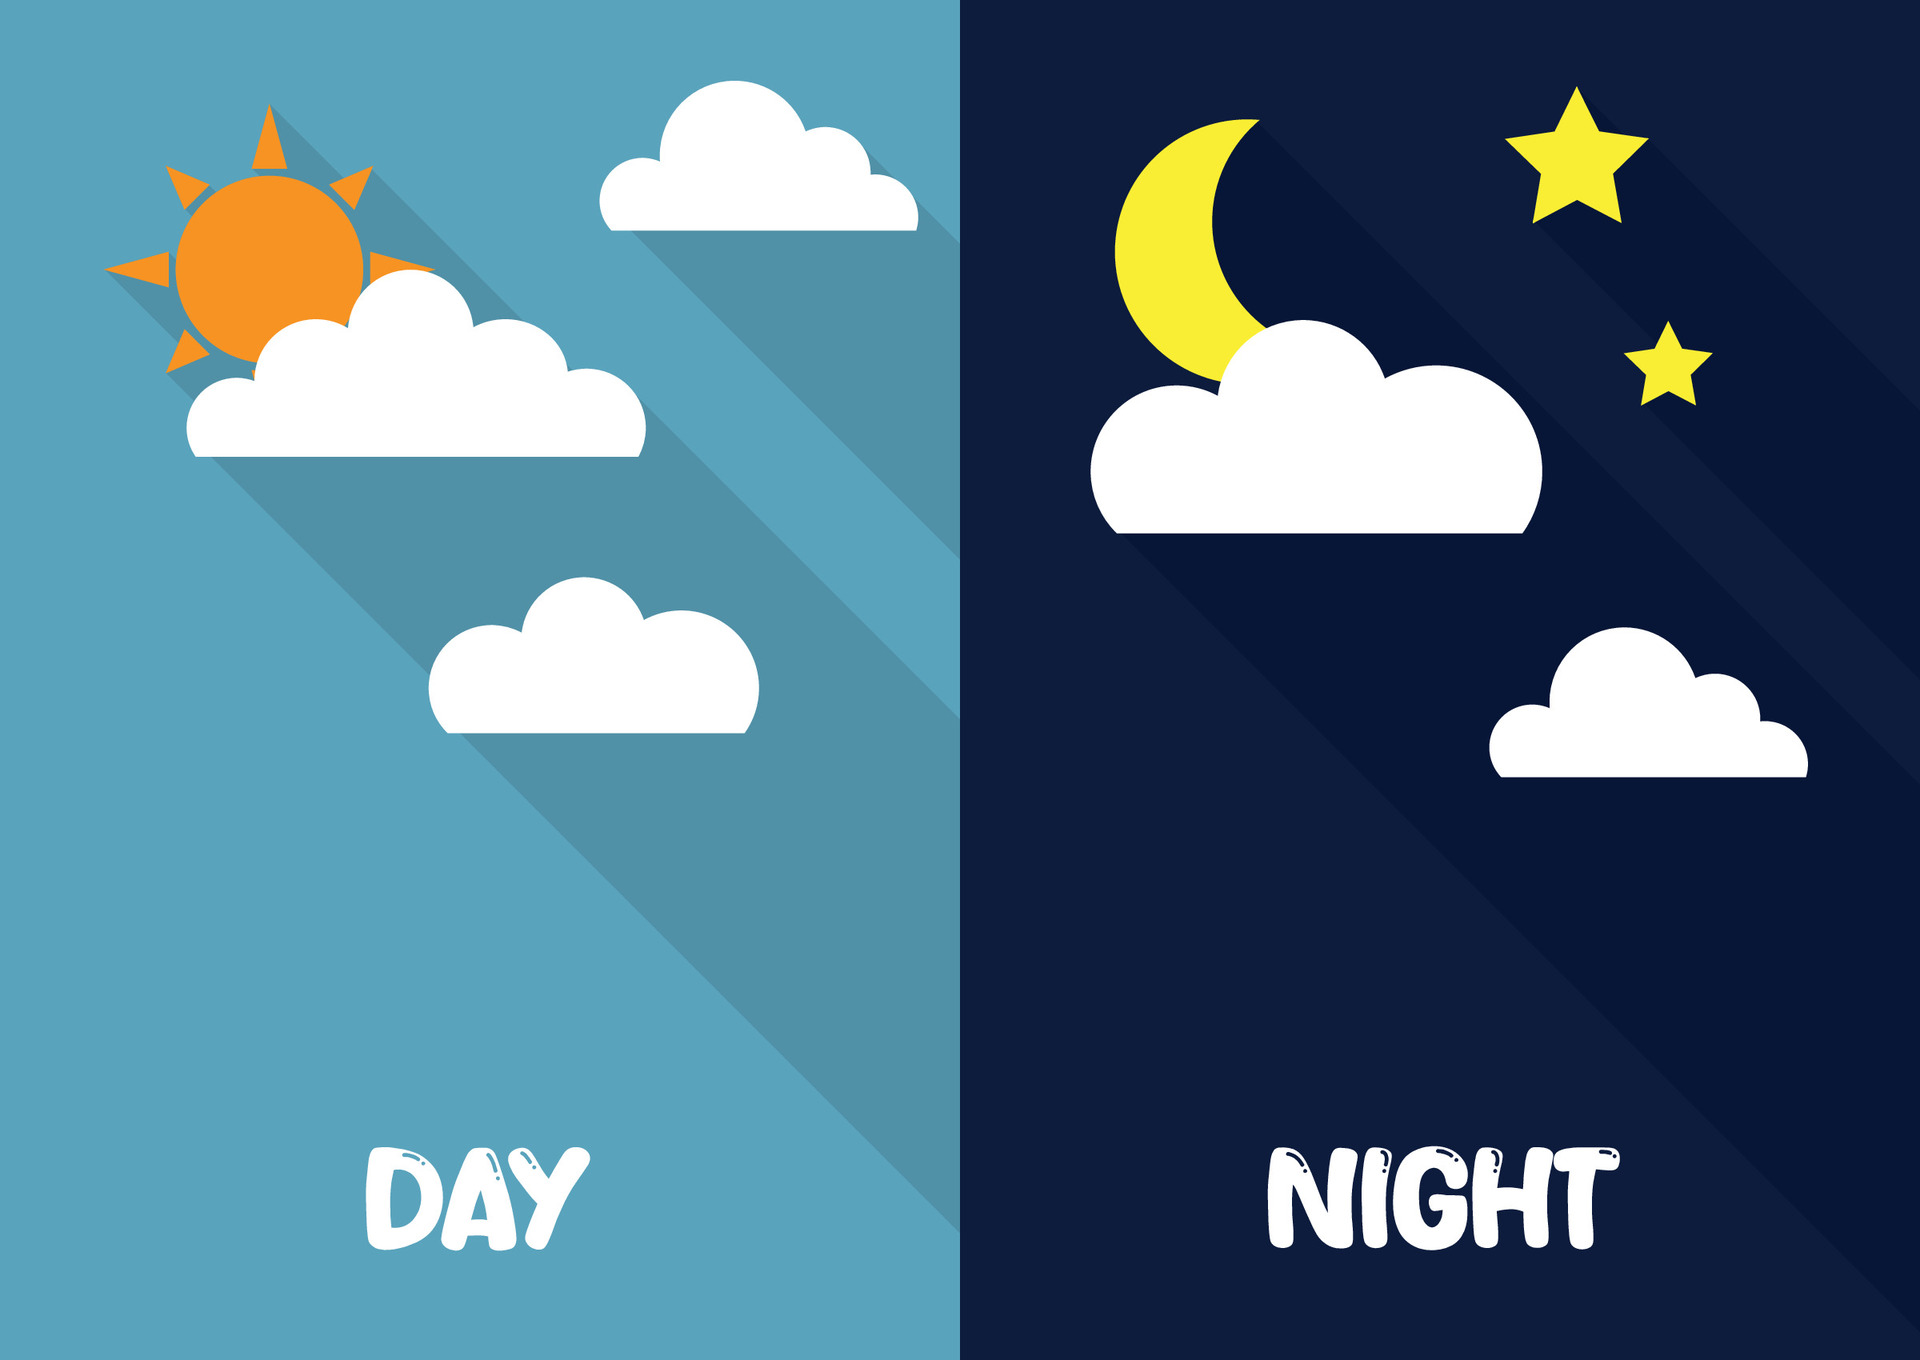
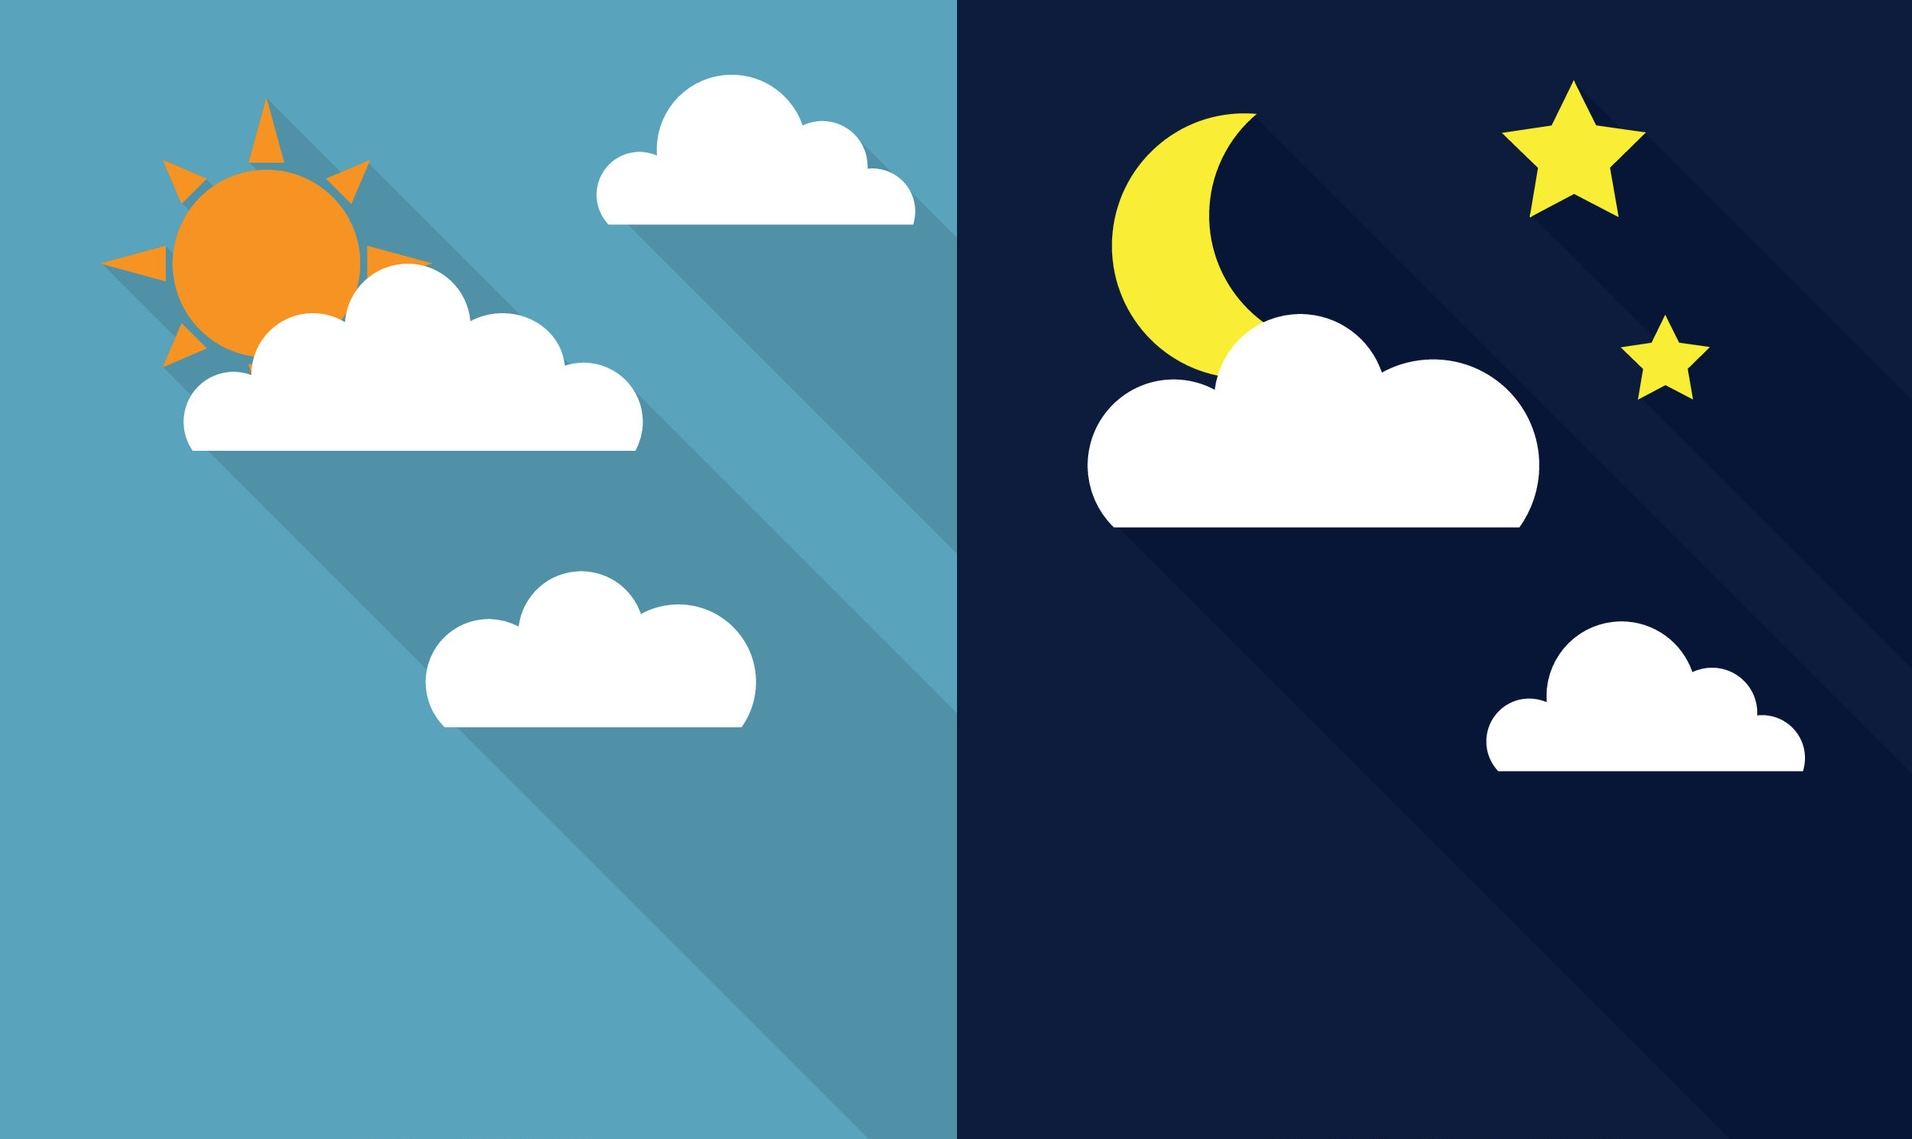
prettier page

diff --git a/exercises/season5/spa-skeleton/css/stylesheet.css b/exercises/season5/spa-skeleton/css/stylesheet.css
@@ -1,6 +1,14 @@
 body {
+    margin: 0; /* Removes default body margins */
+    height: 100vh; /* Sets body height to match the viewport height */
+    width: 100vw; /* Ensures the body width matches the viewport width */
     background-image: url('../assets/day-night.jpg');
-    background-size: cover; /* Makes the image cover the entire background */
+    background-size: 100% 100%; /* Stretches the image to fill the viewport */
     background-repeat: no-repeat; /* Prevents the image from repeating */
-    background-position: center; /* Centers the image */
+    background-position: center; /* Centers the image in the viewport */
+    overflow: hidden; /* Prevents scrollbars if content overflows */
+}
+
+h1 {
+    color: white;
 }

diff --git a/exercises/season5/spa-skeleton/js/view/homeView.js b/exercises/season5/spa-skeleton/js/view/homeView.js
@@ -43,8 +43,8 @@ function render(onClick) {
 
         elem.innerHTML = `
             <h1>Sunrise: ${sunrise} <i class="fa-solid fa-sun"></i></h1>
-            <h3>Sunset: ${sunset} <i class="fa-solid fa-moon"></i></h3>
-            <h3>Day Length: ${day_length} <i class="fa-solid fa-clock"></i></h3>
+            <h1>Sunset: ${sunset} <i class="fa-solid fa-moon"></i></h1>
+            <h1>Day Length: ${day_length} <i class="fa-solid fa-clock"></i></h1>
         `;
 
         if (container.childElementCount > 1) {
